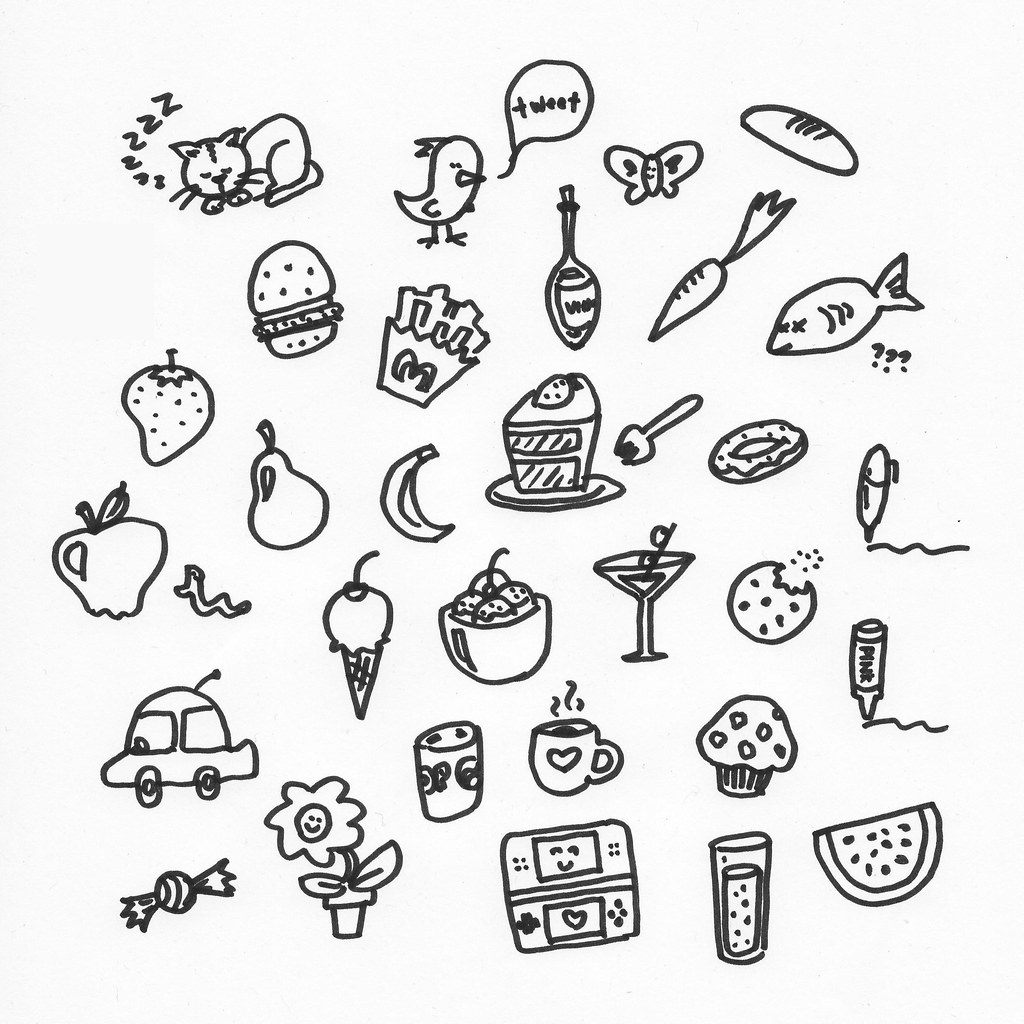
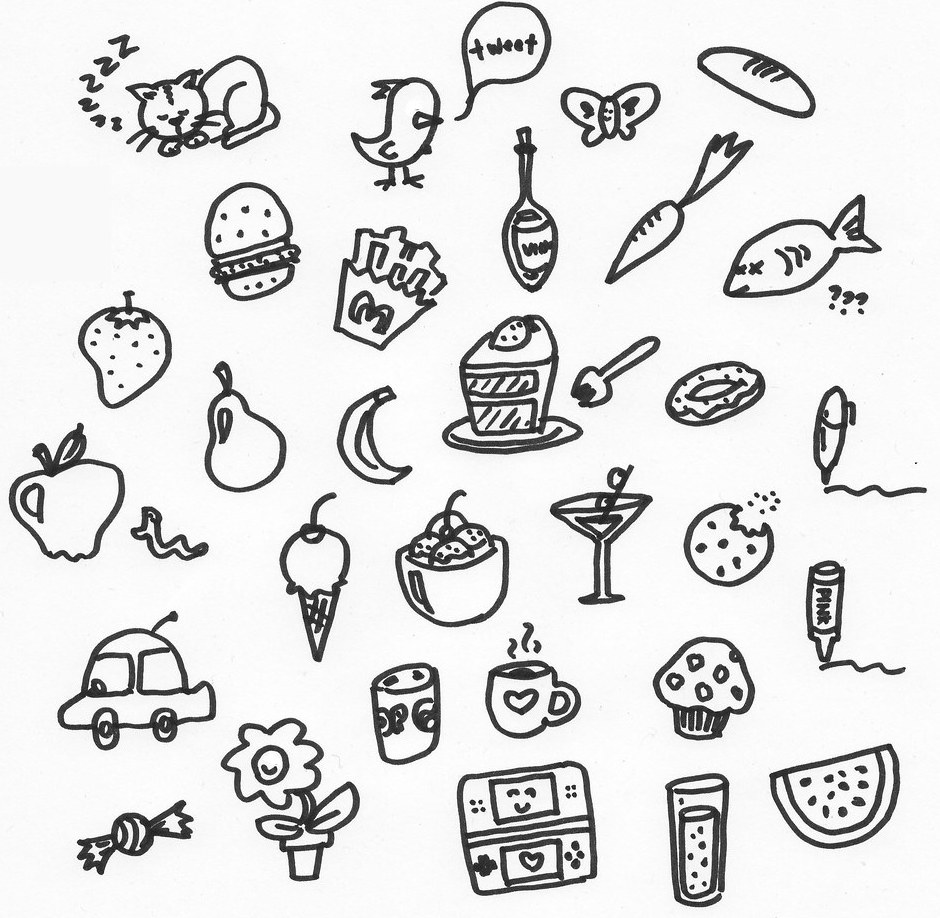
adds main and lobby sytling and animations

diff --git a/src/components/Main.jsx b/src/components/Main.jsx
@@ -19,6 +19,7 @@ const Main = () => {
 
   function lobbyJoiner() {
     if (lobbyKey.length == 4) {
+      setIsJoining(true);
       setIsInLobby(true);
     } else {
       Swal.fire({
@@ -31,8 +32,17 @@ const Main = () => {
   }
 
   function lobbyEnter() {
-    setActivePlayer({ displayName: displayName, isHost: isHosting });
-    navigate(`/lobby/${lobbyKey}`);
+    if (displayName) {
+      setActivePlayer({ displayName: displayName, isHost: isHosting });
+      navigate(`/lobby/${lobbyKey}`);
+    } else {
+      Swal.fire({
+        icon: "error",
+        title: "No Display Name",
+        body: "Please enter a display name",
+        footer: "or sign in with google",
+      });
+    }
   }
 
   function lobbyCreater() {
@@ -42,47 +52,60 @@ const Main = () => {
   }
   const [isInLobby, setIsInLobby] = useState(false);
   const [isHosting, setIsHosting] = useState(false);
+  const [isJoining, setIsJoining] = useState(false);
   return (
-    <div className="center">
-      <h1>Welcome to drawing game</h1>
-      {!isInLobby && (
+    <div className=" main-margin">
+      <h1 className="text-center tracking-in-expand ">
+        Welcome to Doodle Game
+      </h1>
+      <div className="d-flex flex-row main-flex padding-top margin-bottom">
         <div>
-          <TextField
-            label="Lobby ID"
-            id="lobbyKey"
-            type="text"
-            value={lobbyKey}
-            onChange={(e) => setLobbyKey(e.target.value)}
-          />
+          {!isInLobby && (
+            <div className="">
+              <TextField
+                label="Lobby PIN"
+                id="lobbyKey"
+                type="text"
+                value={lobbyKey}
+                onChange={(e) => setLobbyKey(e.target.value)}
+              />
+            </div>
+          )}
+          {(isInLobby || isHosting) && (
+            <div className="text-focus-in">
+              <TextField
+                id="displayName"
+                type="text"
+                label="Name"
+                value={displayName}
+                onChange={(e) => setDisplayName(e.target.value)}
+              />
+            </div>
+          )}
+          {!isInLobby && (
+            <div className="text-center join-button">
+              <Button variant="contained" onClick={() => lobbyJoiner()}>
+                Join
+              </Button>
+            </div>
+          )}
         </div>
-      )}
-      {(isInLobby || isHosting) && (
-        <div>
-          <TextField
-            id="displayName"
-            type="text"
-            label="Nickname"
-            value={displayName}
-            onChange={(e) => setDisplayName(e.target.value)}
-          />
-        </div>
-      )}
-      {!isInLobby && (
-        <Button variant="contained" onClick={() => lobbyJoiner()}>
-          Join
-        </Button>
-      )}
-      {(isInLobby || isHosting) && (
-        <Button variant="contained" onClick={() => lobbyEnter()}>
-          Enter Lobby
-        </Button>
-      )}
-
-      {!isHosting && (
-        <Button variant="contained" onClick={() => lobbyCreater()}>
-          Or Create Lobby as Host
-        </Button>
-      )}
+        {(isInLobby || isHosting) && (
+          <div className="text-focus-in">
+            <Button variant="contained" onClick={() => lobbyEnter()}>
+              Enter Lobby
+            </Button>
+          </div>
+        )}
+        {!isInLobby && <div className="vl"></div>}
+        {!isHosting && !isJoining && (
+          <div className="padding-top ">
+            <Button variant="contained" onClick={() => lobbyCreater()}>
+              Create Lobby
+            </Button>
+          </div>
+        )}
+      </div>
     </div>
   );
 };

diff --git a/src/index.css b/src/index.css
@@ -11,17 +11,19 @@ width: min-content;
     height: 70px;
     width: 200;
 }
+
 body{
     background-image: url(../public/images/doodles.jpeg);
-    background-size: 110%;
+    background-size: 70%;
+    background-repeat: repeat-x;
     background-position: center;
 }
 
 body, #root, html{
     height: 100%;
 }
-.center{
-    margin:auto
+.margin-auto{
+    margin:auto;
 }
 footer{
     width: 100%;
@@ -40,3 +42,70 @@ footer div{
     border-style: solid;
     border-radius: 10px;
 }
+  .main-margin{
+    margin: auto;
+    margin-top: 300px;
+    padding: 20px;
+    margin-bottom: 100px; 
+    border-radius: 10px;
+    box-shadow: rgba(0, 0, 0, 0.498) 0px 5px 15px;
+    width: 40%;
+    background: linear-gradient(0deg, rgba(148,238,118,1) 4%, rgb(81 148 255) 100%);
+  }
+.main-flex{
+    justify-content: space-evenly;
+}
+.height150px{
+    height: 150px; 
+}
+
+.flex-grow{
+    flex-grow: 2;
+}
+.footer-gap{
+gap: 100%;
+}
+.vl{
+    width: 0;
+    border-right: 2px solid rgb(48, 48, 48);
+}
+.join-button{
+margin-top: 10px;
+}
+.margin-bottom{
+    margin-bottom: 20px;
+}
+.padding-top{
+    padding-top: 30px;
+}
+.tracking-in-expand {
+	-webkit-animation: tracking-in-expand 1.5s cubic-bezier(0.215, 0.610, 0.355, 1.000) both;
+	        animation: tracking-in-expand 1.5s cubic-bezier(0.215, 0.610, 0.355, 1.000) both;
+}
+.text-focus-in{animation:text-focus-in .5s cubic-bezier(.55,.085,.68,.53) both}
+
+@keyframes text-focus-in{0%{filter:blur(12px);opacity:0}100%{filter:blur(0);opacity:1}}
+@-webkit-keyframes tracking-in-expand {
+    0% {
+      letter-spacing: -0.5em;
+      opacity: 0;
+    }
+    40% {
+      opacity: 0.6;
+    }
+    100% {
+      opacity: 1;
+    }
+  }
+  @keyframes tracking-in-expand {
+    0% {
+      letter-spacing: -0.5em;
+      opacity: 0;
+    }
+    40% {
+      opacity: 0.6;
+    }
+    100% {
+      opacity: 1;
+    }
+  }

diff --git a/src/components/Lobby.jsx b/src/components/Lobby.jsx
@@ -31,32 +31,36 @@ const Lobby = () => {
     <>
       {(isSketching || isResults || isVoting) && <h1>Round #{rounds}</h1>}
       {!isSketching && !isVoting && !isResults && (
-        <>
-          <h1>Lobby{lobbyKey}</h1>
-          <h2>players</h2>
-          {players &&
-            players.map((player, idx) => {
-              return <div key={idx}> {player.displayName}</div>;
-            })}
+        <div className="main-margin">
+          <h1>Lobby {lobbyKey}</h1>
+          <hr></hr>
+          <div className="height150px">
+            {players &&
+              players.map((player, idx) => {
+                return <div key={idx}> {player.displayName}</div>;
+              })}
+          </div>
           {activePlayer.isHost && (
             <Button variant="contained" onClick={() => ClickHandler()}>
               start game
             </Button>
           )}
-        </>
+        </div>
       )}
       {isSketching && <Sketch SendSketch={SendSketch}></Sketch>}
       {isVoting && <Vote ToResults={ToResults} SendVote={SendVote}></Vote>}
       {isResults && <Results ResetRound={ResetRound} rounds={rounds}></Results>}
-      <footer className="d-flex">
+      <footer className="d-flex footer-gap">
         <h3>{activePlayer.displayName}</h3>
-        <Button variant="contained" className="d-inline">
-          {
-            players.filter((player) => {
-              return player.displayName == activePlayer.displayName;
-            }).score
-          }
-        </Button>
+        <div>
+          <Button variant="contained" className="d-inline">
+            {
+              players.filter((player) => {
+                return player.displayName == activePlayer.displayName;
+              }).score
+            }
+          </Button>
+        </div>
       </footer>
     </>
   );

diff --git a/public/index.html b/public/index.html
@@ -10,7 +10,10 @@
   <link rel="apple-touch-icon" href="%PUBLIC_URL%/logo192.png" />
   <link href="https://cdn.jsdelivr.net/npm/bootstrap@5.2.0/dist/css/bootstrap.min.css" rel="stylesheet"
     integrity="sha384-gH2yIJqKdNHPEq0n4Mqa/HGKIhSkIHeL5AyhkYV8i59U5AR6csBvApHHNl/vI1Bx" crossorigin="anonymous">
-
+  <link rel="preconnect" href="https://fonts.googleapis.com">
+  <link rel="preconnect" href="https://fonts.gstatic.com" crossorigin>
+  <link href="https://fonts.googleapis.com/css2?family=Cabin+Sketch:wght@700&family=Londrina+Sketch&display=swap"
+    rel="stylesheet">
 
   <!--
       manifest.json provides metadata used when your web app is installed on a
